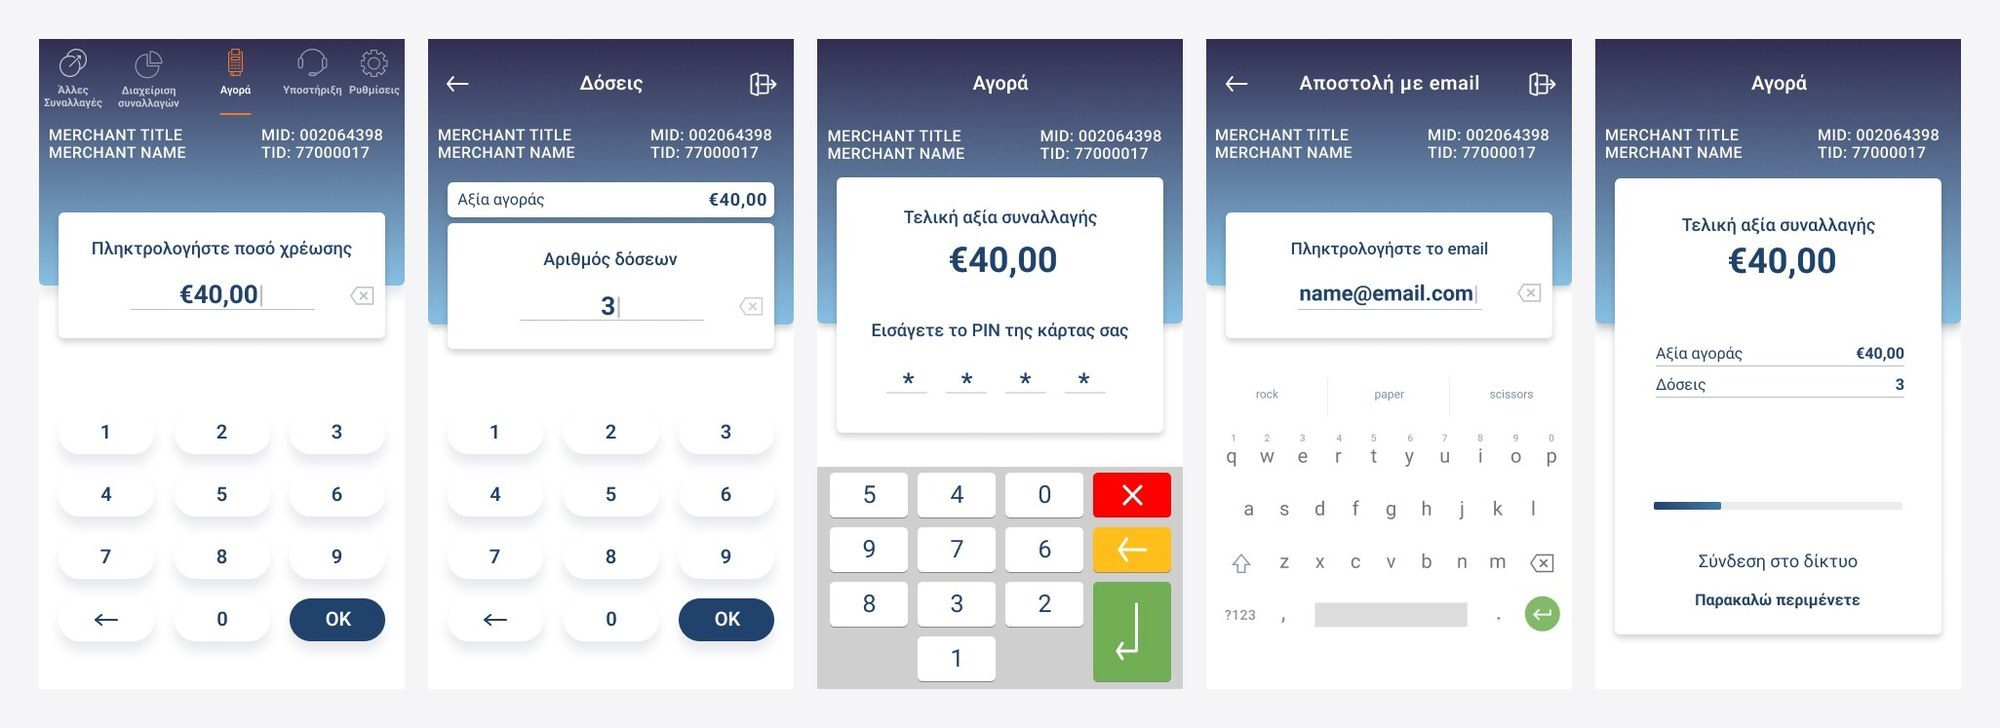
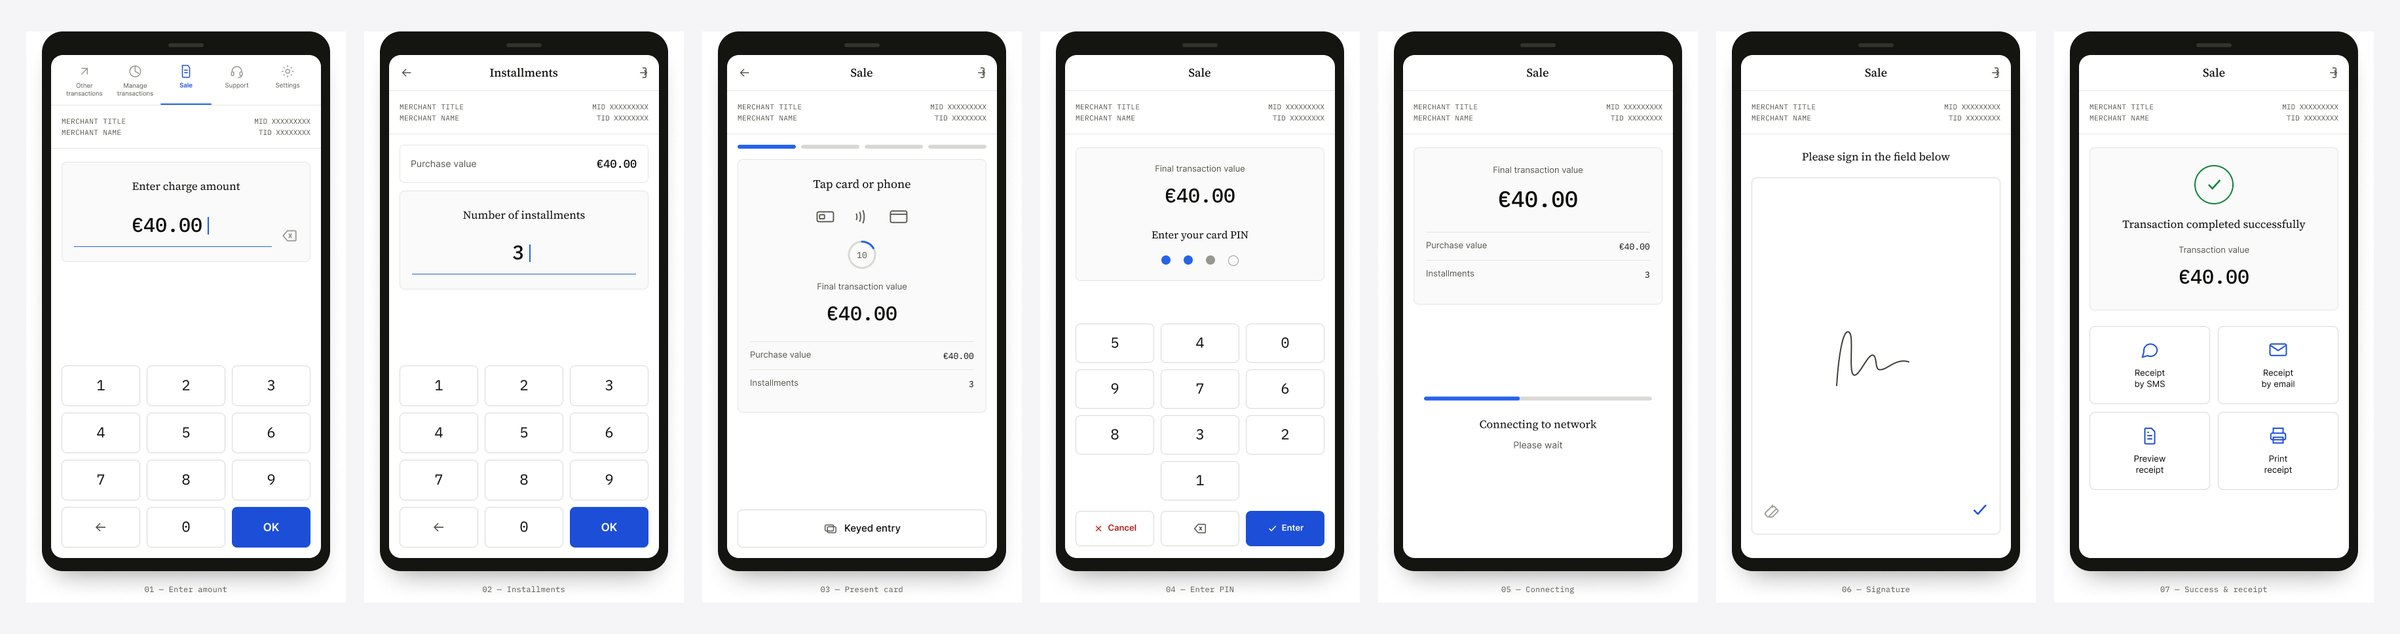
Add Merchant Payments documentation walkthrough.
Introduce the full flow hero and a sequential seven-step payment journey with production screens.

diff --git a/src/work/merchant-payments/index.html b/src/work/merchant-payments/index.html
@@ -62,10 +62,9 @@
             <img
               class="c-media__img"
               src="{{ROOT}}/assets/images/work/merchant-payments/hero.jpg"
-              data-media-empty="true"
-              alt="Merchant Payments project preview"
-              width="2000"
-              height="728"
+              alt="Merchant Payments — complete payment flow across seven production screens"
+              width="2400"
+              height="634"
               loading="eager"
             >
           </div>
@@ -82,6 +81,7 @@
             <li><a href="#role">My Role</a></li>
             <li><a href="#challenge">Challenge</a></li>
             <li><a href="#process">Process</a></li>
+            <li><a href="#payment-flow">Selected Payment Flow</a></li>
             <li><a href="#outcome">Outcome</a></li>
             <li><a href="#reflection">Reflection</a></li>
           </ol>
@@ -156,8 +156,170 @@
           </div>
         </section>
 
-        <section class="cs-section" id="outcome" aria-labelledby="outcome-title">
+        <section class="cs-section" id="payment-flow" aria-labelledby="payment-flow-title">
           <p class="t-micro cs-section__num">05</p>
+          <h2 id="payment-flow-title" class="t-h1 cs-section__title">Selected Payment Flow</h2>
+          <div class="prose">
+            <p class="t-body-lg">
+              The following screens illustrate the complete merchant payment journey, from transaction creation to successful completion. Rather than redesigning isolated screens, the work focused on improving the entire operational flow used daily by merchants.
+            </p>
+          </div>
+
+          <p class="t-micro mt-8 mb-3">Payment Journey</p>
+          <div class="cs-journey" aria-label="Payment journey steps">
+            <span class="cs-journey__item">Amount Entry</span>
+            <span class="cs-journey__sep" aria-hidden="true">↓</span>
+            <span class="cs-journey__item">Installments</span>
+            <span class="cs-journey__sep" aria-hidden="true">↓</span>
+            <span class="cs-journey__item">Card Presentation</span>
+            <span class="cs-journey__sep" aria-hidden="true">↓</span>
+            <span class="cs-journey__item">PIN Verification</span>
+            <span class="cs-journey__sep" aria-hidden="true">↓</span>
+            <span class="cs-journey__item">Authorization</span>
+            <span class="cs-journey__sep" aria-hidden="true">↓</span>
+            <span class="cs-journey__item">Signature</span>
+            <span class="cs-journey__sep" aria-hidden="true">↓</span>
+            <span class="cs-journey__item">Receipt</span>
+          </div>
+
+          <div class="cs-flow">
+            <article class="cs-step cs-step--left" id="step-01" aria-labelledby="step-01-title">
+              <header class="cs-step__head">
+                <p class="t-micro cs-step__num">01</p>
+                <h3 id="step-01-title" class="cs-step__title">Enter Amount</h3>
+              </header>
+              <figure class="cs-step__figure">
+                <img
+                  src="{{ROOT}}/assets/images/work/merchant-payments/step-01.jpg"
+                  alt="Sale screen — enter charge amount with numeric keypad"
+                  width="488"
+                  height="872"
+                  loading="lazy"
+                >
+              </figure>
+              <p class="cs-step__caption">
+                Cashiers begin the payment by entering the transaction amount using a touch-optimized keypad designed for speed, readability and error prevention.
+              </p>
+            </article>
+
+            <article class="cs-step cs-step--right" id="step-02" aria-labelledby="step-02-title">
+              <header class="cs-step__head">
+                <p class="t-micro cs-step__num">02</p>
+                <h3 id="step-02-title" class="cs-step__title">Installments</h3>
+              </header>
+              <figure class="cs-step__figure">
+                <img
+                  src="{{ROOT}}/assets/images/work/merchant-payments/step-02.jpg"
+                  alt="Installments screen — select number of installments"
+                  width="488"
+                  height="872"
+                  loading="lazy"
+                >
+              </figure>
+              <p class="cs-step__caption">
+                When applicable, the merchant selects the number of installments before continuing the payment process.
+              </p>
+            </article>
+
+            <article class="cs-step cs-step--left" id="step-03" aria-labelledby="step-03-title">
+              <header class="cs-step__head">
+                <p class="t-micro cs-step__num">03</p>
+                <h3 id="step-03-title" class="cs-step__title">Present Card</h3>
+              </header>
+              <figure class="cs-step__figure">
+                <img
+                  src="{{ROOT}}/assets/images/work/merchant-payments/step-03.jpg"
+                  alt="Present card screen — tap card or phone with purchase summary"
+                  width="488"
+                  height="872"
+                  loading="lazy"
+                >
+              </figure>
+              <p class="cs-step__caption">
+                The terminal guides customers through contactless and chip card payments while clearly presenting the purchase summary.
+              </p>
+            </article>
+
+            <article class="cs-step cs-step--right" id="step-04" aria-labelledby="step-04-title">
+              <header class="cs-step__head">
+                <p class="t-micro cs-step__num">04</p>
+                <h3 id="step-04-title" class="cs-step__title">PIN Verification</h3>
+              </header>
+              <figure class="cs-step__figure">
+                <img
+                  src="{{ROOT}}/assets/images/work/merchant-payments/step-04.jpg"
+                  alt="PIN verification screen — enter card PIN"
+                  width="488"
+                  height="872"
+                  loading="lazy"
+                >
+              </figure>
+              <p class="cs-step__caption">
+                PIN entry follows familiar banking interaction patterns to support trust, accuracy and secure authentication.
+              </p>
+            </article>
+
+            <article class="cs-step cs-step--left" id="step-05" aria-labelledby="step-05-title">
+              <header class="cs-step__head">
+                <p class="t-micro cs-step__num">05</p>
+                <h3 id="step-05-title" class="cs-step__title">Authorization</h3>
+              </header>
+              <figure class="cs-step__figure">
+                <img
+                  src="{{ROOT}}/assets/images/work/merchant-payments/step-05.jpg"
+                  alt="Authorization screen — connecting to network"
+                  width="488"
+                  height="872"
+                  loading="lazy"
+                >
+              </figure>
+              <p class="cs-step__caption">
+                During transaction authorization the interface minimizes visual noise while communicating progress and system status.
+              </p>
+            </article>
+
+            <article class="cs-step cs-step--right" id="step-06" aria-labelledby="step-06-title">
+              <header class="cs-step__head">
+                <p class="t-micro cs-step__num">06</p>
+                <h3 id="step-06-title" class="cs-step__title">Signature</h3>
+              </header>
+              <figure class="cs-step__figure">
+                <img
+                  src="{{ROOT}}/assets/images/work/merchant-payments/step-06.jpg"
+                  alt="Signature screen — sign in the field below"
+                  width="488"
+                  height="872"
+                  loading="lazy"
+                >
+              </figure>
+              <p class="cs-step__caption">
+                When signature verification is required, the customer signs directly on the terminal before payment completion.
+              </p>
+            </article>
+
+            <article class="cs-step cs-step--center" id="step-07" aria-labelledby="step-07-title">
+              <header class="cs-step__head">
+                <p class="t-micro cs-step__num">07</p>
+                <h3 id="step-07-title" class="cs-step__title">Success &amp; Receipt</h3>
+              </header>
+              <figure class="cs-step__figure">
+                <img
+                  src="{{ROOT}}/assets/images/work/merchant-payments/step-07.jpg"
+                  alt="Success screen — transaction completed with receipt options"
+                  width="488"
+                  height="872"
+                  loading="lazy"
+                >
+              </figure>
+              <p class="cs-step__caption">
+                The transaction concludes with confirmation and multiple receipt delivery options, allowing merchants to immediately complete the payment flow.
+              </p>
+            </article>
+          </div>
+        </section>
+
+        <section class="cs-section" id="outcome" aria-labelledby="outcome-title">
+          <p class="t-micro cs-section__num">06</p>
           <h2 id="outcome-title" class="t-h1 cs-section__title">Outcome</h2>
           <div class="prose">
             <p class="t-body-lg">
@@ -170,7 +332,7 @@
         </section>
 
         <section class="cs-section" id="reflection" aria-labelledby="reflection-title">
-          <p class="t-micro cs-section__num">06</p>
+          <p class="t-micro cs-section__num">07</p>
           <h2 id="reflection-title" class="t-h1 cs-section__title">Reflection</h2>
           <div class="prose">
             <p class="t-body-lg">

diff --git a/assets/css/pages.css b/assets/css/pages.css
@@ -192,6 +192,133 @@
   margin-top: var(--space-8);
 }
 
+/* Documentation walkthrough — sequential product steps */
+.cs-journey {
+  display: flex;
+  flex-wrap: wrap;
+  align-items: center;
+  gap: var(--space-2) var(--space-3);
+  margin-top: var(--space-8);
+  margin-bottom: var(--space-12);
+  padding: var(--space-5) 0;
+  border-top: 1px solid var(--color-neutral-200);
+  border-bottom: 1px solid var(--color-neutral-200);
+  font-family: var(--font-mono);
+  font-size: var(--text-micro);
+  font-weight: var(--font-weight-medium);
+  letter-spacing: var(--tracking-micro);
+  text-transform: uppercase;
+  color: var(--color-neutral-500);
+  line-height: var(--leading-tight);
+}
+
+.cs-journey__sep {
+  color: var(--color-neutral-400);
+}
+
+.cs-journey__item {
+  color: var(--color-neutral-700);
+}
+
+.cs-flow {
+  display: flex;
+  flex-direction: column;
+  gap: 0;
+  margin-top: var(--space-10);
+}
+
+.cs-step {
+  padding-block: var(--space-12);
+  border-top: 1px solid var(--color-neutral-200);
+}
+
+.cs-step:first-child {
+  border-top: none;
+  padding-top: 0;
+}
+
+.cs-step__head {
+  margin-bottom: var(--space-6);
+  padding-bottom: var(--space-5);
+  border-bottom: 1px solid var(--color-neutral-200);
+}
+
+.cs-step__num {
+  display: block;
+  margin-bottom: var(--space-2);
+  color: var(--color-accent-600);
+}
+
+.cs-step__title {
+  margin: 0;
+  font-family: var(--font-serif);
+  font-size: var(--text-h2);
+  font-weight: var(--font-weight-semibold);
+  line-height: var(--leading-heading);
+  color: var(--color-neutral-900);
+}
+
+.cs-step__figure {
+  margin: 0 0 var(--space-6);
+  width: 76%;
+  max-width: 100%;
+}
+
+.cs-step__figure img {
+  display: block;
+  width: 100%;
+  height: auto;
+  border: var(--elevation-border);
+  border-radius: var(--radius-md);
+  background: var(--color-neutral-50);
+}
+
+.cs-step--left .cs-step__figure {
+  margin-left: 0;
+  margin-right: auto;
+}
+
+.cs-step--right .cs-step__figure {
+  margin-left: auto;
+  margin-right: 0;
+}
+
+.cs-step--center .cs-step__figure {
+  margin-left: auto;
+  margin-right: auto;
+}
+
+.cs-step__caption {
+  margin: 0;
+  max-width: 36rem;
+  font-size: var(--text-body);
+  line-height: var(--leading-body);
+  color: var(--color-neutral-700);
+}
+
+.cs-step--right .cs-step__caption {
+  margin-left: auto;
+}
+
+.cs-step--center .cs-step__caption {
+  margin-left: auto;
+  margin-right: auto;
+  text-align: center;
+}
+
+@media (max-width: 767px) {
+  .cs-step__figure {
+    width: 100%;
+  }
+
+  .cs-step--right .cs-step__caption,
+  .cs-step--center .cs-step__caption {
+    margin-left: 0;
+    margin-right: 0;
+    text-align: left;
+  }
+}
+
 /* Case study project summary — documentation-style definition list */
 .cs-summary {
   display: grid;
@@ -476,7 +603,7 @@
 }
 
 .cs-hero-figure--merchant {
-  --media-ratio: 2000 / 728;
+  --media-ratio: 2400 / 634;
 }
 
 .cs-hero-figure--gh {
